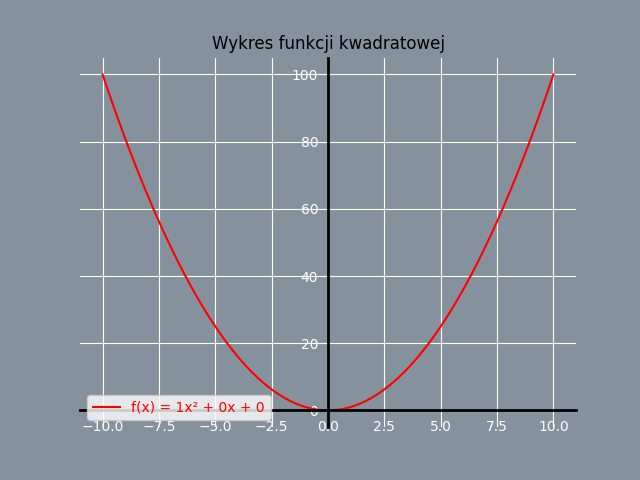
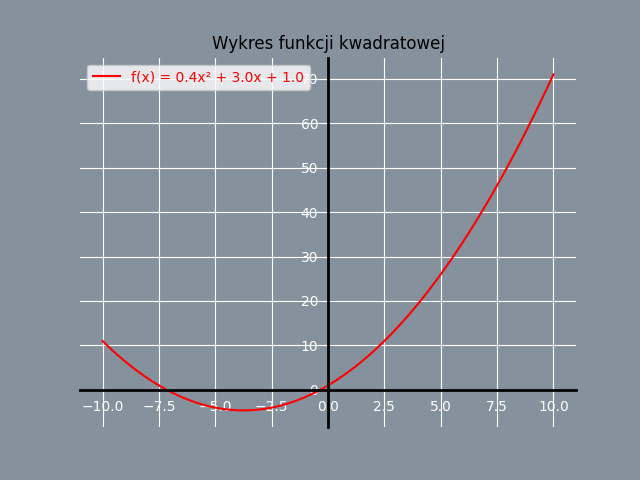
improved responsiveness

diff --git a/static/style.css b/static/style.css
@@ -28,23 +28,31 @@ body {
 
 .graph-img {
   display: flex;
-  flex-direction: column;
+  justify-content: center;
+  align-items: center;
   width: 100%;
-  height: 100%;
+  height: 50%;
+}
+
+.form-container {
+  display: flex;
+  flex-direction: column;
+  justify-content: flex-end;
+  align-items: center;
+  height: 50%;
 }
 
 .input-container {
   display: flex;
   flex-direction: row;
   margin:0;
-  margin-bottom: 2em;
+  margin-bottom: 1em;
 }
 
 input {
-  width: 5em;
+  width: 100%;
   margin-right: 2em;
   padding: 0.5em;
-  display: block;
   border: none;
   border-bottom: 0.1em solid black;
   background: none;
@@ -54,12 +62,12 @@ input {
 
 ::placeholder {
   color: white;
-
 }
 
 .genButton {
   padding: 0.5em;
-  width: 10em;
+  width: 100%;
+  height: 3em;
   font-size: 16px;
   cursor: pointer;
   border: none;

diff --git a/templates/index.html b/templates/index.html
@@ -10,9 +10,9 @@
         <div class="graph-container">
             <h1 style="text-align: center; width: 100%; color: black;">Rysowanie Funkcji</h1>
             <div class="graph-img">
-                <img src="{{ url_for('static', filename='graph.png') }}">
+                <img style="height: 100%; width: 100%;" src="{{ url_for('static', filename='graph.png') }}">
             </div>
-            <form method="POST">
+            <form class="form-container" method="POST">
                 <img style="margin-bottom:1em" src="{{ url_for('static', filename='q_function.svg') }}">
                 <div class="input-container">
                     <input name="a" type="text" placeholder="A" autofocus="autofocus" required>

diff --git a/main.py b/main.py
@@ -11,9 +11,9 @@ def load_index():
 @app.route('/', methods=['POST'])
 def info():
     try:
-        a = int(request.form.get('a'))
-        b = int(request.form.get('b'))
-        c = int(request.form.get('c'))
+        a = float(request.form.get('a'))
+        b = float(request.form.get('b'))
+        c = float(request.form.get('c'))
         qf = QuadraticFunc(a, b, c)
         w = qf.f_kwadratowa()
     except:
